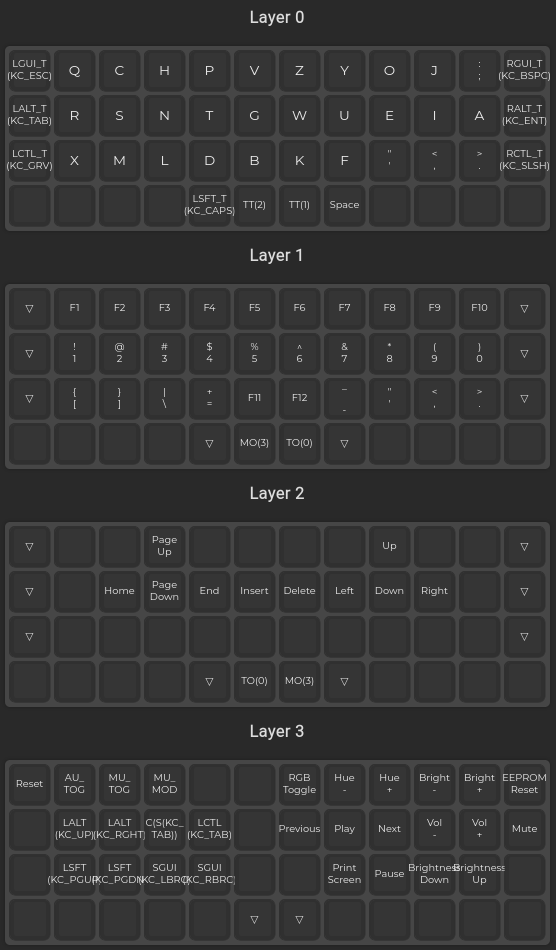
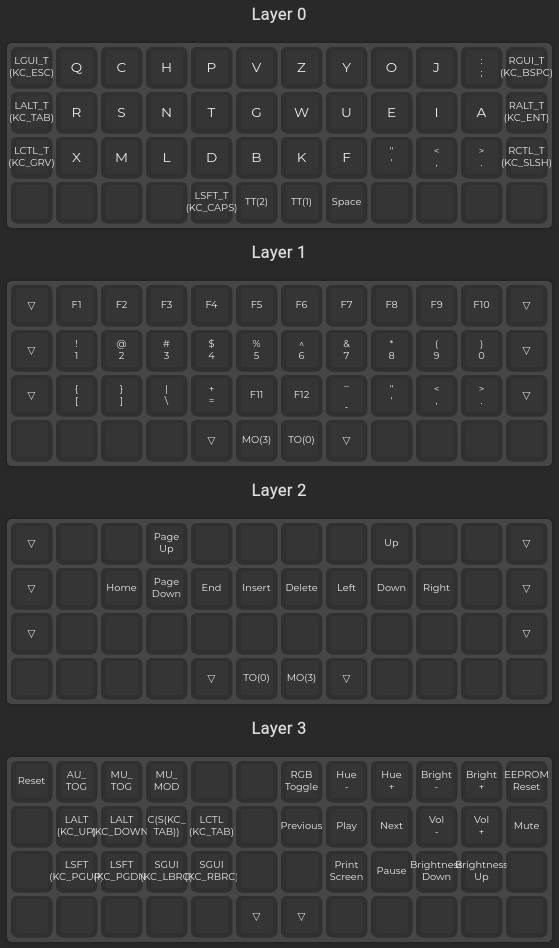
Fix arrow in shortcut

diff --git a/keymap.c b/keymap.c
@@ -10,5 +10,5 @@ const uint16_t PROGMEM keymaps[][MATRIX_ROWS][MATRIX_COLS] = {
 	[0] = LAYOUT_ortho_4x12(LGUI_T(KC_ESC), KC_Q, KC_C, KC_H, KC_P, KC_V, KC_Z, KC_Y, KC_O, KC_J, KC_SCLN, RGUI_T(KC_BSPC), LALT_T(KC_TAB), KC_R, KC_S, KC_N, KC_T, KC_G, KC_W, KC_U, KC_E, KC_I, KC_A, RALT_T(KC_ENT), LCTL_T(KC_GRV), KC_X, KC_M, KC_L, KC_D, KC_B, KC_K, KC_F, KC_QUOT, KC_COMM, KC_DOT, RCTL_T(KC_SLSH), KC_NO, KC_NO, KC_NO, KC_NO, LSFT_T(KC_CAPS), TT(2), TT(1), KC_SPC, KC_NO, KC_NO, KC_NO, KC_NO),
 	[1] = LAYOUT_ortho_4x12(KC_TRNS, KC_F1, KC_F2, KC_F3, KC_F4, KC_F5, KC_F6, KC_F7, KC_F8, KC_F9, KC_F10, KC_TRNS, KC_TRNS, KC_1, KC_2, KC_3, KC_4, KC_5, KC_6, KC_7, KC_8, KC_9, KC_0, KC_TRNS, KC_TRNS, KC_LBRC, KC_RBRC, KC_BSLS, KC_EQL, KC_F11, KC_F12, KC_MINS, KC_QUOT, KC_COMM, KC_DOT, KC_TRNS, KC_NO, KC_NO, KC_NO, KC_NO, KC_TRNS, MO(3), TO(0), KC_TRNS, KC_NO, KC_NO, KC_NO, KC_NO),
 	[2] = LAYOUT_ortho_4x12(KC_TRNS, KC_NO, KC_NO, KC_PGUP, KC_NO, KC_NO, KC_NO, KC_NO, KC_UP, KC_NO, KC_NO, KC_TRNS, KC_TRNS, KC_NO, KC_HOME, KC_PGDN, KC_END, KC_INS, KC_DEL, KC_LEFT, KC_DOWN, KC_RGHT, KC_NO, KC_TRNS, KC_TRNS, KC_NO, KC_NO, KC_NO, KC_NO, KC_NO, KC_NO, KC_NO, KC_NO, KC_NO, KC_NO, KC_TRNS, KC_NO, KC_NO, KC_NO, KC_NO, KC_TRNS, TO(0), MO(3), KC_TRNS, KC_NO, KC_NO, KC_NO, KC_NO),
-	[3] = LAYOUT_ortho_4x12(RESET, AU_TOG, MU_TOG, MU_MOD, KC_NO, KC_NO, RGB_TOG, RGB_HUD, RGB_HUI, RGB_VAD, RGB_VAI, EEP_RST, KC_NO, LALT(KC_UP), LALT(KC_RGHT), C(S(KC_TAB)), LCTL(KC_TAB), KC_NO, KC_MPRV, KC_MPLY, KC_MNXT, KC_VOLD, KC_VOLU, KC_MUTE, KC_NO, LSFT(KC_PGUP), LSFT(KC_PGDN), SGUI(KC_LBRC), SGUI(KC_RBRC), KC_NO, KC_NO, KC_PSCR, KC_PAUS, KC_BRID, KC_BRIU, KC_NO, KC_NO, KC_NO, KC_NO, KC_NO, KC_NO, KC_TRNS, KC_TRNS, KC_NO, KC_NO, KC_NO, KC_NO, KC_NO)
+	[3] = LAYOUT_ortho_4x12(RESET, AU_TOG, MU_TOG, MU_MOD, KC_NO, KC_NO, RGB_TOG, RGB_HUD, RGB_HUI, RGB_VAD, RGB_VAI, EEP_RST, KC_NO, LALT(KC_UP), LALT(KC_DOWN), C(S(KC_TAB)), LCTL(KC_TAB), KC_NO, KC_MPRV, KC_MPLY, KC_MNXT, KC_VOLD, KC_VOLU, KC_MUTE, KC_NO, LSFT(KC_PGUP), LSFT(KC_PGDN), SGUI(KC_LBRC), SGUI(KC_RBRC), KC_NO, KC_NO, KC_PSCR, KC_PAUS, KC_BRID, KC_BRIU, KC_NO, KC_NO, KC_NO, KC_NO, KC_NO, KC_NO, KC_TRNS, KC_TRNS, KC_NO, KC_NO, KC_NO, KC_NO, KC_NO)
 };
